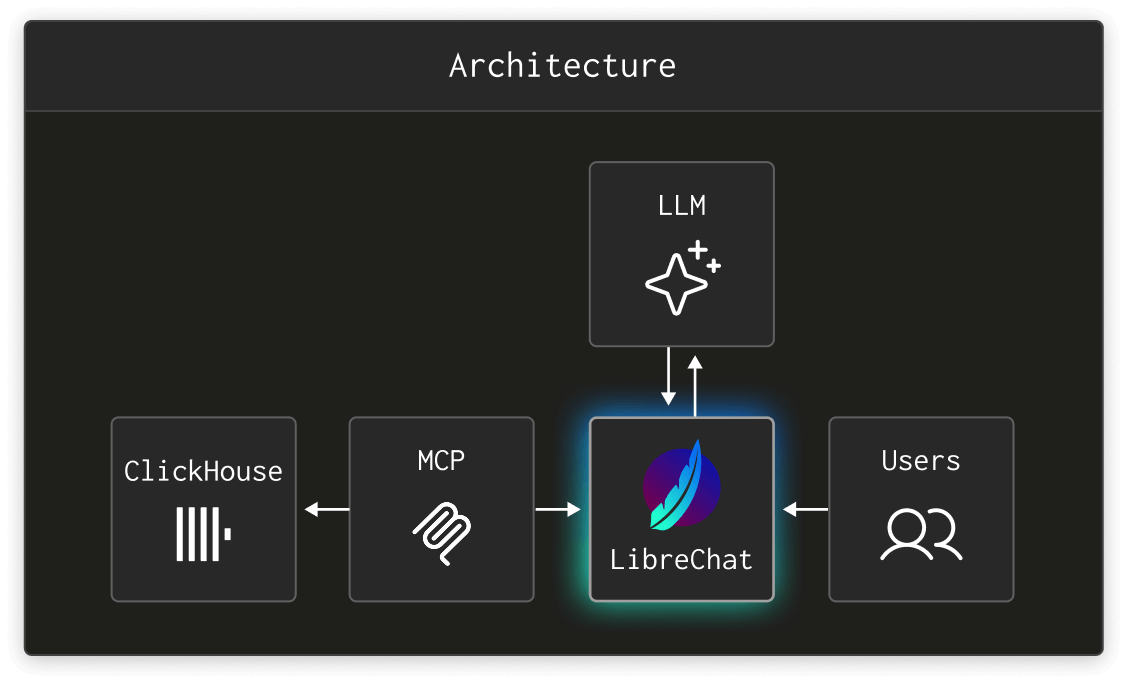
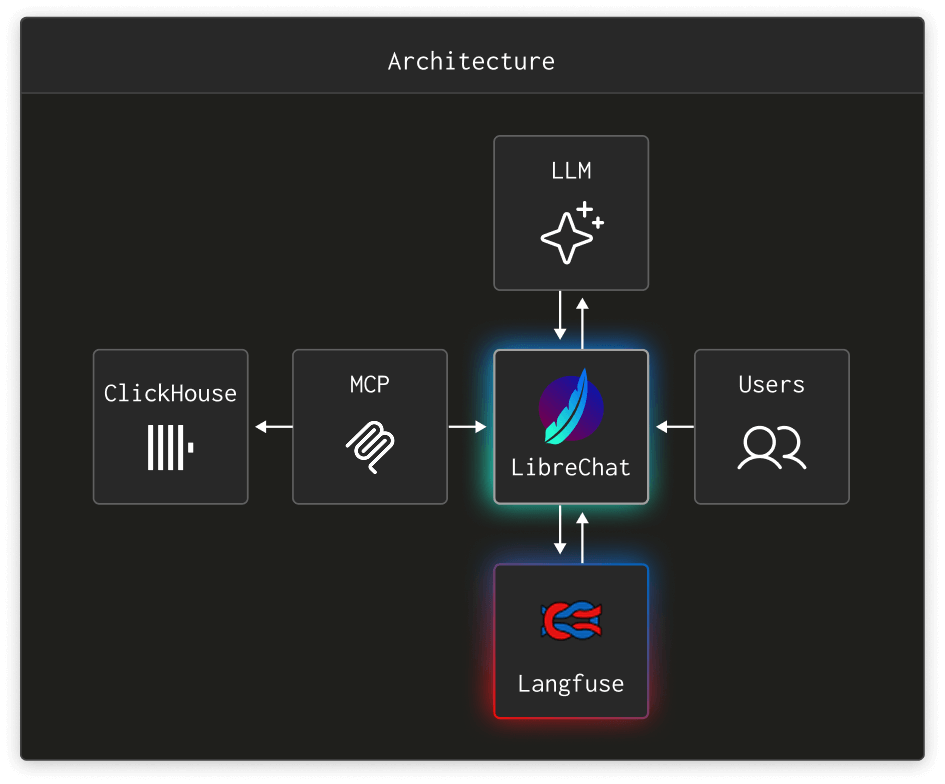
New images and content

diff --git a/src/pages/ai/index.tsx b/src/pages/ai/index.tsx
@@ -73,7 +73,7 @@ export default function Page({ seo, headerData }: CommonProps) {
               <br />
               Your chat, your models, your data.
               <br />
-              Powered by ClickHouse, MCP, and LibreChat.
+              Powered by ClickHouse, LibreChat and Langfuse.
             </SuiText>
             <div className='!my-8 flex flex-col gap-6 sm:flex-row sm:justify-center'>
               <CUIButton
@@ -138,6 +138,39 @@ export default function Page({ seo, headerData }: CommonProps) {
             style={
               {
                 '--top-side': '50%',
+                '--right-side': 'auto',
+                '--left-side': '20%',
+                '--scale': '0.7',
+                '--opacity': '0.02'
+              } as CSSProperties
+            }
+            image={
+              <Image
+                src={imageAgent}
+                width={1093 / 2}
+                height={498 / 2}
+                alt='Create your agent'
+              />
+            }>
+            <SuiTitle type='h3' className='mb-8 !text-4xl' weight='semibold'>
+              Chat, visualize, share
+            </SuiTitle>
+            <TickItem>Talk to your data</TickItem>
+            <TickItem>
+              Create and share no-code, specialized agents across your team
+            </TickItem>
+            <TickItem>
+              Create charts, visualisations, and dashboards from chats
+            </TickItem>
+            <TickItem>
+              Save and share chat and artifacts with your team
+            </TickItem>
+          </FeatureSection>
+          <FeatureSection
+            className='bg-shadow-element yellow-shadow'
+            style={
+              {
+                '--top-side': '50%',
                 '--right-side': '20%',
                 '--left-side': 'auto',
                 '--scale': '0.7',
@@ -147,17 +180,21 @@ export default function Page({ seo, headerData }: CommonProps) {
             image={
               <Image
                 src={imageArchitecture}
-                width={1128 / 2}
-                height={684 / 2}
+                width={945 / 2}
+                height={784 / 2}
                 alt='Architecture'
               />
             }>
             <SuiTitle
               type='h3'
-              className='mb-8 max-w-md !text-4xl'
+              className='max-w-md !text-4xl'
               weight='semibold'>
               An open-source, composable stack
             </SuiTitle>
+            <p className='!mt-2 mb-8 max-w-md text-lg text-neutral-200/75'>
+              Monitored by the leading solution for LLM observability,
+              evaluations, and prompt management
+            </p>
             <TickItem className='max-w-md'>
               LibreChat gives you a familiar chat UI
             </TickItem>
@@ -177,102 +214,79 @@ export default function Page({ seo, headerData }: CommonProps) {
               </Link>
             </TickItem>
           </FeatureSection>
-          {/*<hr className='mx-auto w-2/3 opacity-10 lg:w-1/2' />*/}
-          <FeatureSection
-            className='bg-shadow-element yellow-shadow'
-            style={
-              {
-                '--top-side': '50%',
-                '--right-side': 'auto',
-                '--left-side': '20%',
-                '--scale': '0.7',
-                '--opacity': '0.02'
-              } as CSSProperties
-            }
-            image={
-              <Image
-                src={imageAgent}
-                width={559 / 2}
-                height={878 / 2}
-                alt='Create your agent'
-              />
-            }>
-            <SuiTitle type='h3' className='mb-8 !text-4xl' weight='semibold'>
-              Chat, visualize, share
-            </SuiTitle>
-            <TickItem>Talk to your data</TickItem>
-            <TickItem>
-              Create and share no-code, specialized agents across your team
-            </TickItem>
-            <TickItem>
-              Generate charts, visualizations, and dashboards from chats
-            </TickItem>
-            <TickItem>
-              Save and share chat and artifacts with your team
-            </TickItem>
-          </FeatureSection>
         </div>
       </section>
       <section className='my-24 bg-gradient-to-br from-[#042566] to-[#010C22]'>
         <div className='section-container py-16 lg:py-24'>
-          <FeatureSection
-            image={
+          <div className='flex flex-col items-center justify-center gap-x-16 gap-y-12 md:flex-row'>
+            <div className='relative z-10 flex w-full flex-col md:w-1/2 md:text-left'>
+              <Link
+                href='/blog/clickhouse-acquires-langfuse-open-source-llm-observability'
+                className='inline-flex w-full max-w-max items-center gap-3 rounded bg-neutral-400/20 px-3 py-2 text-xs text-neutral-200/75 transition-colors hover:text-neutral-200'>
+                <svg
+                  xmlns='http://www.w3.org/2000/svg'
+                  width='13'
+                  height='13'
+                  fill='none'
+                  viewBox='0 0 13 13'
+                  className='flex-shrink-0 flex-grow-0'>
+                  <path
+                    fill='silver'
+                    fillOpacity='.75'
+                    d='M6.5 6c.28 0 .5.22.5.5v3.33a.5.5 0 1 1-1 0V6.5c0-.28.22-.5.5-.5m.07-2.66a.67.67 0 1 1-.73.73V4c0-.37.3-.67.66-.67z'
+                  />
+                  <path
+                    fill='silver'
+                    fill-opacity='.75'
+                    fillRule='evenodd'
+                    d='M6.5 0a6.5 6.5 0 1 1 0 13 6.5 6.5 0 0 1 0-13m0 1a5.5 5.5 0 1 0 0 11 5.5 5.5 0 0 0 0-11'
+                    clipRule='evenodd'
+                  />
+                </svg>
+                ClickHouse welcomes Langfuse: The future of open-source LLM
+                observability
+              </Link>
+              <div className='mt-8 space-y-4 border-primary-300 md:border-l-4 md:pl-8'>
+                <SuiTitle
+                  type='h3'
+                  className='mb-8 !text-4xl'
+                  weight='semibold'>
+                  Observe your agents with&nbsp;Langfuse
+                </SuiTitle>
+                <TickItem>
+                  Trace full agent workflows, from prompts to tool calls and
+                  responses
+                </TickItem>
+                <TickItem>
+                  Evaluate agent outputs with custom scoring and human feedback
+                </TickItem>
+                <TickItem>
+                  Monitor quality, cost, and latency across every LLM call
+                </TickItem>
+                <TickItem>
+                  <Link
+                    href='https://langfuse.com/?utm_source=clickhouse_dotai'
+                    target='_blank'
+                    className='text-primary-300 underline hover:decoration-2'>
+                    Get started on langfuse.com
+                    <ExternalLink
+                      height={16}
+                      width={16}
+                      className='ml-2 inline'
+                    />
+                  </Link>
+                </TickItem>
+              </div>
+            </div>
+            <div className='relative z-10 flex w-full items-center justify-center md:w-1/2'>
               <Image
                 src={langfuseObservability}
                 width={1785 / 3}
                 height={1273 / 3}
                 alt='Languse'
               />
-            }>
-            <Link
-              href='/blog/clickhouse-acquires-langfuse-open-source-llm-observability'
-              className='rounded bg-neutral-400/20 px-3 py-2 text-xs text-neutral-200/75'>
-              <svg
-                xmlns='http://www.w3.org/2000/svg'
-                width='13'
-                height='13'
-                fill='none'
-                viewBox='0 0 13 13'
-                className='mr-3 inline-block'>
-                <path
-                  fill='silver'
-                  fillOpacity='.75'
-                  d='M6.5 6c.28 0 .5.22.5.5v3.33a.5.5 0 1 1-1 0V6.5c0-.28.22-.5.5-.5m.07-2.66a.67.67 0 1 1-.73.73V4c0-.37.3-.67.66-.67z'
-                />
-                <path
-                  fill='silver'
-                  fill-opacity='.75'
-                  fillRule='evenodd'
-                  d='M6.5 0a6.5 6.5 0 1 1 0 13 6.5 6.5 0 0 1 0-13m0 1a5.5 5.5 0 1 0 0 11 5.5 5.5 0 0 0 0-11'
-                  clipRule='evenodd'
-                />
-              </svg>
-              ClickHouse welcomes Langfuse: The future of open-source LLM
-              observability
-            </Link>
-            <SuiTitle type='h3' className='mb-8 !text-4xl' weight='semibold'>
-              Observe your agents with Langfuse
-            </SuiTitle>
-            <TickItem>
-              Trace full agent workflows, from prompts to tool calls and
-              responses
-            </TickItem>
-            <TickItem>
-              Evaluate agent outputs with custom scoring and human feedback
-            </TickItem>
-            <TickItem>
-              Monitor quality, cost, and latency across every LLM call
-            </TickItem>
-            <TickItem>
-              <Link
-                href='https://langfuse.com/?utm_source=clickhouse_dotai'
-                target='_blank'
-                className='text-primary-300 underline hover:decoration-2'>
-                Get started on langfuse.com
-                <ExternalLink height={16} width={16} className='ml-2 inline' />
-              </Link>
-            </TickItem>
-          </FeatureSection>
+            </div>
+          </div>
         </div>
       </section>
       <section className='my-24'>
